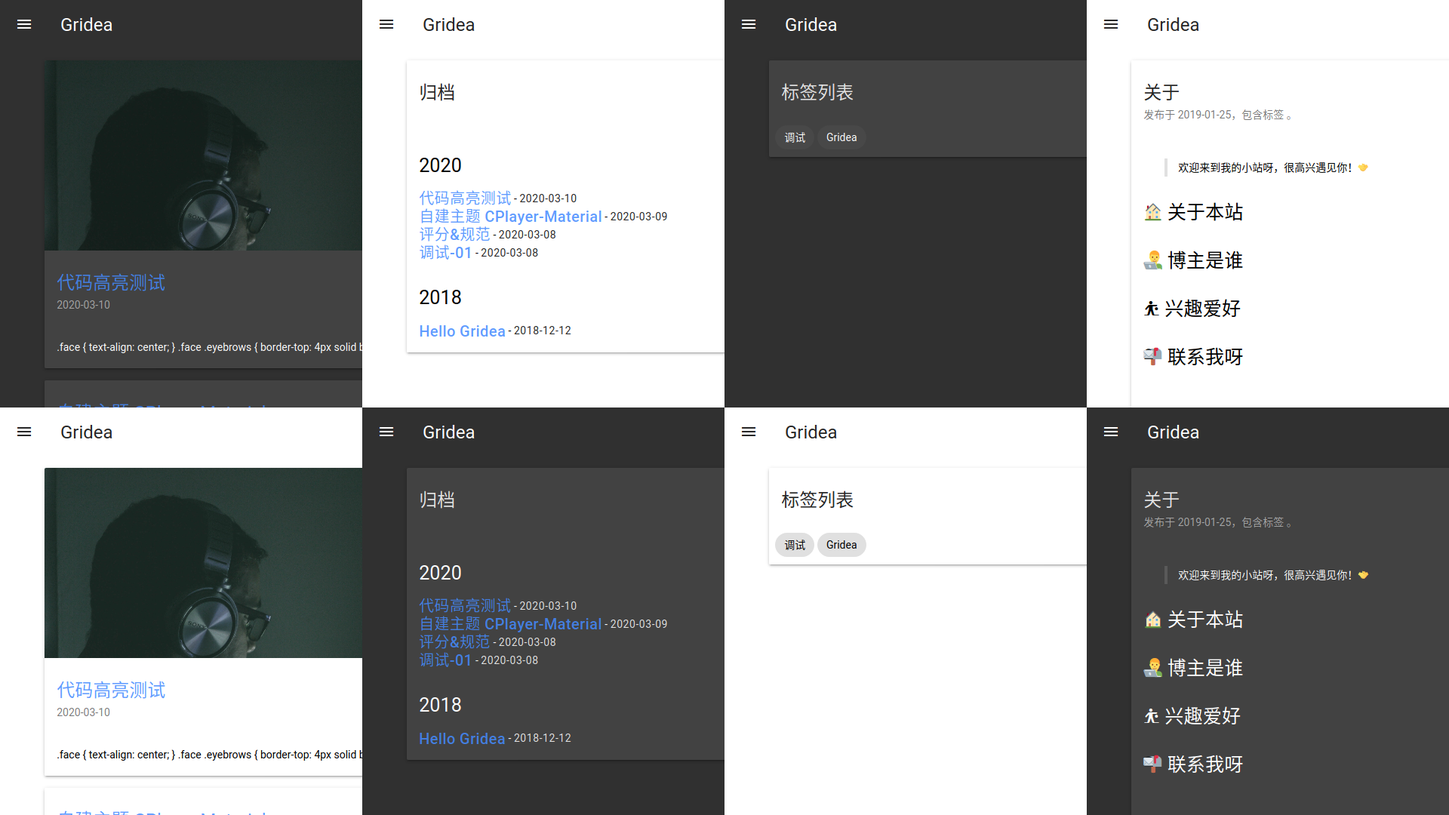
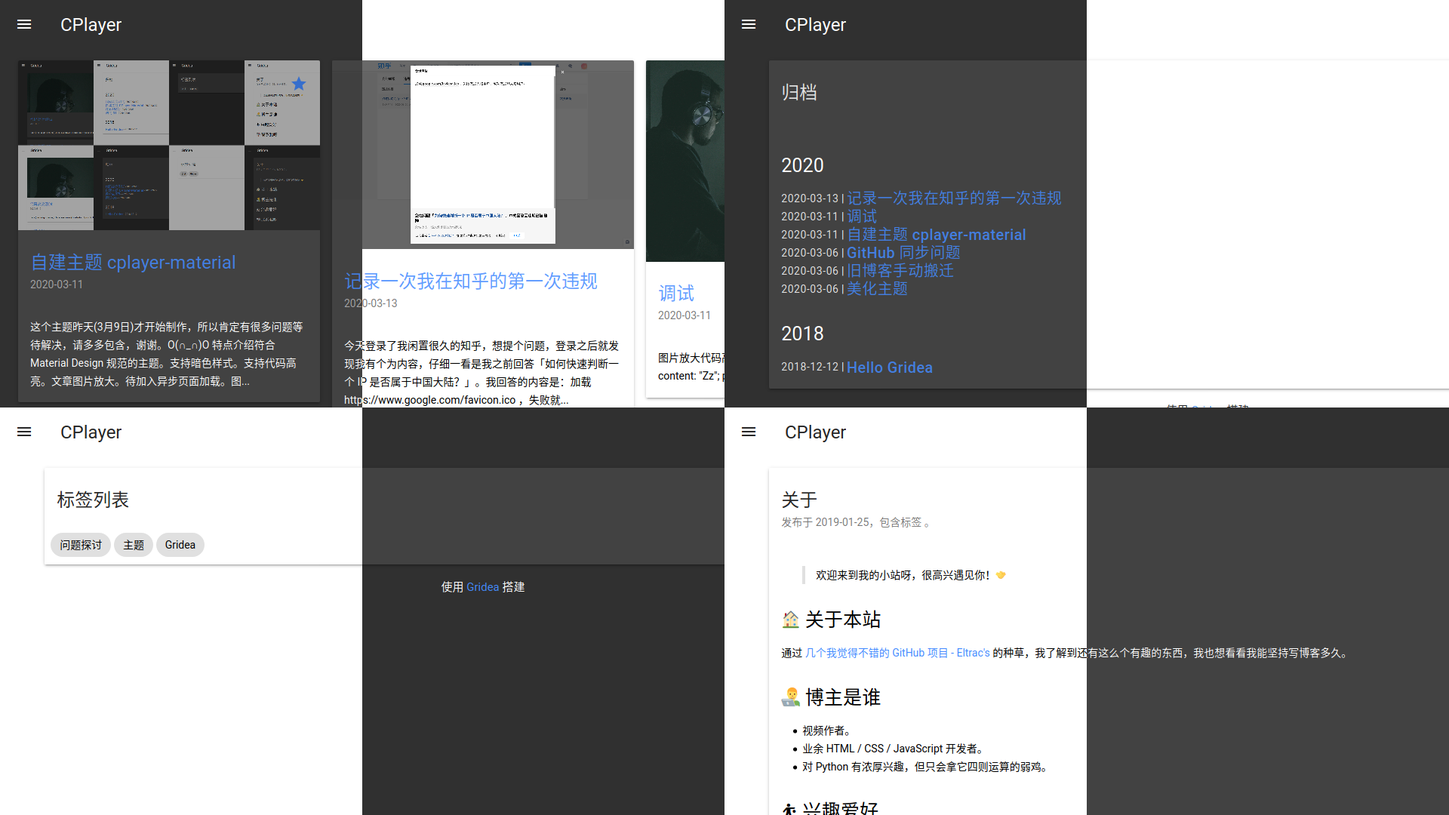
β-0.0.4
- 修改文章列表页面为瀑布流样式。
2020年03月14日09:22:07
新增 `masonry.pkgd.min.js` 文件。  
来自 https://unpkg.com/masonry-layout@4.2.2/dist/masonry.pkgd.min.js

新增 `imagesloaded.pkgd.min.js` 文件。  
来自 https://unpkg.com/imagesloaded@4.1.4/imagesloaded.pkgd.min.js

修改 `post-list.ejs` 文件。
```HTML
<% posts.forEach(function(post) { %>
    <section class="mdui-card mdui-m-b-2">
        <% if (post.feature) { %>
        <div class="mdui-card-media" style="background-image: url(<%= post.feature %>);">
            <% if (post.isTop) { %>
            <div class="mdui-card-menu">
                <i mdui-tooltip="{content: '顶置', position: 'left'}" class="mdui-icon material-icons mdui-text-color-orange">import_contacts</i>
            </div>
            <% } %>
        </div>
        <% } %>
        <div class="mdui-card-primary">
            <a href="<%= post.link %>" class="mdui-card-primary-title"><%= post.title %></a>
            <div class="mdui-card-primary-subtitle"><%= post.dateFormat %></div>
        </div>
        <div class="mdui-card-content"><%- post.description %></div>
    </section>
<% }); %>
```
```HTML
<% posts.forEach(function(post) { %>
    <section class="mdui-col mdui-m-b-2">
        <div class="mdui-card">
            <% if (post.feature) { %>
            <div class="mdui-card-media">
                <img src="<%= post.feature %>">
                <% if (post.isTop) { %>
                <div class="mdui-card-menu">
[…]

diff --git a/assets/media/js/masonry.pkgd.min.js b/assets/media/js/masonry.pkgd.min.js
@@ -1,0 +1,9 @@
+/*!
+ * Masonry PACKAGED v4.2.2
+ * Cascading grid layout library
+ * https://masonry.desandro.com
+ * MIT License
+ * by David DeSandro
+ */
+
+!function(t,e){"function"==typeof define&&define.amd?define("jquery-bridget/jquery-bridget",["jquery"],function(i){return e(t,i)}):"object"==typeof module&&module.exports?module.exports=e(t,require("jquery")):t.jQueryBridget=e(t,t.jQuery)}(window,function(t,e){"use strict";function i(i,r,a){function h(t,e,n){var o,r="$()."+i+'("'+e+'")';return t.each(function(t,h){var u=a.data(h,i);if(!u)return void s(i+" not initialized. Cannot call methods, i.e. "+r);var d=u[e];if(!d||"_"==e.charAt(0))return void s(r+" is not a valid method");var l=d.apply(u,n);o=void 0===o?l:o}),void 0!==o?o:t}function u(t,e){t.each(function(t,n){var o=a.data(n,i);o?(o.option(e),o._init()):(o=new r(n,e),a.data(n,i,o))})}a=a||e||t.jQuery,a&&(r.prototype.option||(r.prototype.option=function(t){a.isPlainObject(t)&&(this.options=a.extend(!0,this.options,t))}),a.fn[i]=function(t){if("string"==typeof t){var e=o.call(arguments,1);return h(this,t,e)}return u(this,t),this},n(a))}function n(t){!t||t&&t.bridget||(t.bridget=i)}var o=Array.prototype.slice,r=t.console,s="undefined"==typeof r?function(){}:function(t){r.error(t)};return n(e||t.jQuery),i}),function(t,e){"function"==typeof define&&define.amd?define("ev-emitter/ev-emitter",e):"object"==typeof module&&module.exports?module.exports=e():t.EvEmitter=e()}("undefined"!=typeof window?window:this,function(){function t(){}var e=t.prototype;return e.on=function(t,e){if(t&&e){var i=this._events=this._events||{},n=i[t]=i[t]||[];return-1==n.indexOf(e)&&n.push(e),this}},e.once=function(t,e){if(t&&e){this.on(t,e);var i=this._onceEvents=this._onceEvents||{},n=i[t]=i[t]||{};return n[e]=!0,this}},e.off=function(t,e){var i=this._events&&this._events[t];if(i&&i.length){var n=i.indexOf(e);return-1!=n&&i.splice(n,1),this}},e.emitEvent=function(t,e){var i=this._events&&this._events[t];if(i&&i.length){i=i.slice(0),e=e||[];for(var n=this._onceEvents&&this._onceEvents[t],o=0;o<i.length;o++){var r=i[o],s=n&&n[r];s&&(this.off(t,r),delete n[r]),r.apply(this,e)}return this}},e.allOff=function(){delete this._events,delete this._onceEvents},t}),function(t,e){"function"==typeof define&&define.amd?define("get-size/get-size",e):"object"==typeof module&&module.exports?module.exports=e():t.getSize=e()}(window,function(){"use strict";function t(t){var e=parseFloat(t),i=-1==t.indexOf("%")&&!isNaN(e);return i&&e}function e(){}function i(){for(var t={width:0,height:0,innerWidth:0,innerHeight:0,outerWidth:0,outerHeight:0},e=0;u>e;e++){var i=h[e];t[i]=0}return t}function n(t){var e=getComputedStyle(t);return e||a("Style returned "+e+". Are you running this code in a hidden iframe on Firefox? See https://bit.ly/getsizebug1"),e}function o(){if(!d){d=!0;var e=document.createElement("div");e.style.width="200px",e.style.padding="1px 2px 3px 4px",e.style.borderStyle="solid",e.style.borderWidth="1px 2px 3px 4px",e.style.boxSizing="border-box";var i=document.body||document.documentElement;i.appendChild(e);var o=n(e);s=200==Math.round(t(o.width)),r.isBoxSizeOuter=s,i.removeChild(e)}}function r(e){if(o(),"string"==typeof e&&(e=document.querySelector(e)),e&&"object"==typeof e&&e.nodeType){var r=n(e);if("none"==r.display)return i();var a={};a.width=e.offsetWidth,a.height=e.offsetHeight;for(var d=a.isBorderBox="border-box"==r.boxSizing,l=0;u>l;l++){var c=h[l],f=r[c],m=parseFloat(f);a[c]=isNaN(m)?0:m}var p=a.paddingLeft+a.paddingRight,g=a.paddingTop+a.paddingBottom,y=a.marginLeft+a.marginRight,v=a.marginTop+a.marginBottom,_=a.borderLeftWidth+a.borderRightWidth,z=a.borderTopWidth+a.borderBottomWidth,E=d&&s,b=t(r.width);b!==!1&&(a.width=b+(E?0:p+_));var x=t(r.height);return x!==!1&&(a.height=x+(E?0:g+z)),a.innerWidth=a.width-(p+_),a.innerHeight=a.height-(g+z),a.outerWidth=a.width+y,a.outerHeight=a.height+v,a}}var s,a="undefined"==typeof console?e:function(t){console.error(t)},h=["paddingLeft","paddingRight","paddingTop","paddingBottom","marginLeft","marginRight","marginTop","marginBottom","borderLeftWidth","borderRightWidth","borderTopWidth","borderBottomWidth"],u=h.length,d=!1;return r}),function(t,e){"use strict";"function"==typeof define&&define.amd?define("desandro-matches-selector/matches-selector",e):"object"==typeof module&&module.exports?module.exports=e():t.matchesSelector=e()}(window,function(){"use strict";var t=function(){var t=window.Element.prototype;if(t.matches)return"matches";if(t.matchesSelector)return"matchesSelector";for(var e=["webkit","moz","ms","o"],i=0;i<e.length;i++){var n=e[i],o=n+"MatchesSelector";if(t[o])return o}}();return function(e,i){return e[t](i)}}),function(t,e){"function"==typeof define&&define.amd?define("fizzy-ui-utils/utils",["desandro-matches-selector/matches-selector"],function(i){return e(t,i)}):"object"==typeof module&&module.exports?module.exports=e(t,require("desandro-matches-selector")):t.fizzyUIUtils=e(t,t.matchesSelector)}(window,function(t,e){var i={};i.extend=function(t,e){for(var i in e)t[i]=e[i];return t},i.modulo=function(t,e){return(t%e+e)%e};var n=Array.prototype.slice;i.makeArray=function(t){if(Array.isArray(t))return t;if(null===t||void 0===t)return[];var e="object"==typeof t&&"number"==typeof t.length;return e?n.call(t):[t]},i.removeFrom=function(t,e){var i=t.indexOf(e);-1!=i&&t.splice(i,1)},i.getParent=function(t,i){for(;t.parentNode&&t!=document.body;)if(t=t.parentNode,e(t,i))return t},i.getQueryElement=function(t){return"string"==typeof t?document.querySelector(t):t},i.handleEvent=function(t){var e="on"+t.type;this[e]&&this[e](t)},i.filterFindElements=function(t,n){t=i.makeArray(t);var o=[];return t.forEach(function(t){if(t instanceof HTMLElement){if(!n)return void o.push(t);e(t,n)&&o.push(t);for(var i=t.querySelectorAll(n),r=0;r<i.length;r++)o.push(i[r])}}),o},i.debounceMethod=function(t,e,i){i=i||100;var n=t.prototype[e],o=e+"Timeout";t.prototype[e]=function(){var t=this[o];clearTimeout(t);var e=arguments,r=this;this[o]=setTimeout(function(){n.apply(r,e),delete r[o]},i)}},i.docReady=function(t){var e=document.readyState;"complete"==e||"interactive"==e?setTimeout(t):document.addEventListener("DOMContentLoaded",t)},i.toDashed=function(t){return t.replace(/(.)([A-Z])/g,function(t,e,i){return e+"-"+i}).toLowerCase()};var o=t.console;return i.htmlInit=function(e,n){i.docReady(function(){var r=i.toDashed(n),s="data-"+r,a=document.querySelectorAll("["+s+"]"),h=document.querySelectorAll(".js-"+r),u=i.makeArray(a).concat(i.makeArray(h)),d=s+"-options",l=t.jQuery;u.forEach(function(t){var i,r=t.getAttribute(s)||t.getAttribute(d);try{i=r&&JSON.parse(r)}catch(a){return void(o&&o.error("Error parsing "+s+" on "+t.className+": "+a))}var h=new e(t,i);l&&l.data(t,n,h)})})},i}),function(t,e){"function"==typeof define&&define.amd?define("outlayer/item",["ev-emitter/ev-emitter","get-size/get-size"],e):"object"==typeof module&&module.exports?module.exports=e(require("ev-emitter"),require("get-size")):(t.Outlayer={},t.Outlayer.Item=e(t.EvEmitter,t.getSize))}(window,function(t,e){"use strict";function i(t){for(var e in t)return!1;return e=null,!0}function n(t,e){t&&(this.element=t,this.layout=e,this.position={x:0,y:0},this._create())}function o(t){return t.replace(/([A-Z])/g,function(t){return"-"+t.toLowerCase()})}var r=document.documentElement.style,s="string"==typeof r.transition?"transition":"WebkitTransition",a="string"==typeof r.transform?"transform":"WebkitTransform",h={WebkitTransition:"webkitTransitionEnd",transition:"transitionend"}[s],u={transform:a,transition:s,transitionDuration:s+"Duration",transitionProperty:s+"Property",transitionDelay:s+"Delay"},d=n.prototype=Object.create(t.prototype);d.constructor=n,d._create=function(){this._transn={ingProperties:{},clean:{},onEnd:{}},this.css({position:"absolute"})},d.handleEvent=function(t){var e="on"+t.type;this[e]&&this[e](t)},d.getSize=function(){this.size=e(this.element)},d.css=function(t){var e=this.element.style;for(var i in t){var n=u[i]||i;e[n]=t[i]}},d.getPosition=function(){var t=getComputedStyle(this.element),e=this.layout._getOption("originLeft"),i=this.layout._getOption("originTop"),n=t[e?"left":"right"],o=t[i?"top":"bottom"],r=parseFloat(n),s=parseFloat(o),a=this.layout.size;-1!=n.indexOf("%")&&(r=r/100*a.width),-1!=o.indexOf("%")&&(s=s/100*a.height),r=isNaN(r)?0:r,s=isNaN(s)?0:s,r-=e?a.paddingLeft:a.paddingRight,s-=i?a.paddingTop:a.paddingBottom,this.position.x=r,this.position.y=s},d.layoutPosition=function(){var t=this.layout.size,e={},i=this.layout._getOption("originLeft"),n=this.layout._getOption("originTop"),o=i?"paddingLeft":"paddingRight",r=i?"left":"right",s=i?"right":"left",a=this.position.x+t[o];e[r]=this.getXValue(a),e[s]="";var h=n?"paddingTop":"paddingBottom",u=n?"top":"bottom",d=n?"bottom":"top",l=this.position.y+t[h];e[u]=this.getYValue(l),e[d]="",this.css(e),this.emitEvent("layout",[this])},d.getXValue=function(t){var e=this.layout._getOption("horizontal");return this.layout.options.percentPosition&&!e?t/this.layout.size.width*100+"%":t+"px"},d.getYValue=function(t){var e=this.layout._getOption("horizontal");return this.layout.options.percentPosition&&e?t/this.layout.size.height*100+"%":t+"px"},d._transitionTo=function(t,e){this.getPosition();var i=this.position.x,n=this.position.y,o=t==this.position.x&&e==this.position.y;if(this.setPosition(t,e),o&&!this.isTransitioning)return void this.layoutPosition();var r=t-i,s=e-n,a={};a.transform=this.getTranslate(r,s),this.transition({to:a,onTransitionEnd:{transform:this.layoutPosition},isCleaning:!0})},d.getTranslate=function(t,e){var i=this.layout._getOption("originLeft"),n=this.layout._getOption("originTop");return t=i?t:-t,e=n?e:-e,"translate3d("+t+"px, "+e+"px, 0)"},d.goTo=function(t,e){this.setPosition(t,e),this.layoutPosition()},d.moveTo=d._transitionTo,d.setPosition=function(t,e){this.position.x=parseFloat(t),this.position.y=parseFloat(e)},d._nonTransition=function(t){this.css(t.to),t.isCleaning&&this._removeStyles(t.to);for(var e in t.onTransitionEnd)t.onTransitionEnd[e].call(this)},d.transition=function(t){if(!parseFloat(this.layout.options.transitionDuration))return void this._nonTransition(t);var e=this._transn;for(var i in t.onTransitionEnd)e.onEnd[i]=t.onTransitionEnd[i];for(i in t.to)e.ingProperties[i]=!0,t.isCleaning&&(e.clean[i]=!0);if(t.from){this.css(t.from);var n=this.element.offsetHeight;n=null}this.enableTransition(t.to),this.css(t.to),this.isTransitioning=!0};var l="opacity,"+o(a);d.enableTransition=function(){if(!this.isTransitioning){var t=this.layout.options.transitionDuration;t="number"==typeof t?t+"ms":t,this.css({transitionProperty:l,transitionDuration:t,transitionDelay:this.staggerDelay||0}),this.element.addEventListener(h,this,!1)}},d.onwebkitTransitionEnd=function(t){this.ontransitionend(t)},d.onotransitionend=function(t){this.ontransitionend(t)};var c={"-webkit-transform":"transform"};d.ontransitionend=function(t){if(t.target===this.element){var e=this._transn,n=c[t.propertyName]||t.propertyName;if(delete e.ingProperties[n],i(e.ingProperties)&&this.disableTransition(),n in e.clean&&(this.element.style[t.propertyName]="",delete e.clean[n]),n in e.onEnd){var o=e.onEnd[n];o.call(this),delete e.onEnd[n]}this.emitEvent("transitionEnd",[this])}},d.disableTransition=function(){this.removeTransitionStyles(),this.element.removeEventListener(h,this,!1),this.isTransitioning=!1},d._removeStyles=function(t){var e={};for(var i in t)e[i]="";this.css(e)};var f={transitionProperty:"",transitionDuration:"",transitionDelay:""};return d.removeTransitionStyles=function(){this.css(f)},d.stagger=function(t){t=isNaN(t)?0:t,this.staggerDelay=t+"ms"},d.removeElem=function(){this.element.parentNode.removeChild(this.element),this.css({display:""}),this.emitEvent("remove",[this])},d.remove=function(){return s&&parseFloat(this.layout.options.transitionDuration)?(this.once("transitionEnd",function(){this.removeElem()}),void this.hide()):void this.removeElem()},d.reveal=function(){delete this.isHidden,this.css({display:""});var t=this.layout.options,e={},i=this.getHideRevealTransitionEndProperty("visibleStyle");e[i]=this.onRevealTransitionEnd,this.transition({from:t.hiddenStyle,to:t.visibleStyle,isCleaning:!0,onTransitionEnd:e})},d.onRevealTransitionEnd=function(){this.isHidden||this.emitEvent("reveal")},d.getHideRevealTransitionEndProperty=function(t){var e=this.layout.options[t];if(e.opacity)return"opacity";for(var i in e)return i},d.hide=function(){this.isHidden=!0,this.css({display:""});var t=this.layout.options,e={},i=this.getHideRevealTransitionEndProperty("hiddenStyle");e[i]=this.onHideTransitionEnd,this.transition({from:t.visibleStyle,to:t.hiddenStyle,isCleaning:!0,onTransitionEnd:e})},d.onHideTransitionEnd=function(){this.isHidden&&(this.css({display:"none"}),this.emitEvent("hide"))},d.destroy=function(){this.css({position:"",left:"",right:"",top:"",bottom:"",transition:"",transform:""})},n}),function(t,e){"use strict";"function"==typeof define&&define.amd?define("outlayer/outlayer",["ev-emitter/ev-emitter","get-size/get-size","fizzy-ui-utils/utils","./item"],function(i,n,o,r){return e(t,i,n,o,r)}):"object"==typeof module&&module.exports?module.exports=e(t,require("ev-emitter"),require("get-size"),require("fizzy-ui-utils"),require("./item")):t.Outlayer=e(t,t.EvEmitter,t.getSize,t.fizzyUIUtils,t.Outlayer.Item)}(window,function(t,e,i,n,o){"use strict";function r(t,e){var i=n.getQueryElement(t);if(!i)return void(h&&h.error("Bad element for "+this.constructor.namespace+": "+(i||t)));this.element=i,u&&(this.$element=u(this.element)),this.options=n.extend({},this.constructor.defaults),this.option(e);var o=++l;this.element.outlayerGUID=o,c[o]=this,this._create();var r=this._getOption("initLayout");r&&this.layout()}function s(t){function e(){t.apply(this,arguments)}return e.prototype=Object.create(t.prototype),e.prototype.constructor=e,e}function a(t){if("number"==typeof t)return t;var e=t.match(/(^\d*\.?\d*)(\w*)/),i=e&&e[1],n=e&&e[2];if(!i.length)return 0;i=parseFloat(i);var o=m[n]||1;return i*o}var h=t.console,u=t.jQuery,d=function(){},l=0,c={};r.namespace="outlayer",r.Item=o,r.defaults={containerStyle:{position:"relative"},initLayout:!0,originLeft:!0,originTop:!0,resize:!0,resizeContainer:!0,transitionDuration:"0.4s",hiddenStyle:{opacity:0,transform:"scale(0.001)"},visibleStyle:{opacity:1,transform:"scale(1)"}};var f=r.prototype;n.extend(f,e.prototype),f.option=function(t){n.extend(this.options,t)},f._getOption=function(t){var e=this.constructor.compatOptions[t];return e&&void 0!==this.options[e]?this.options[e]:this.options[t]},r.compatOptions={initLayout:"isInitLayout",horizontal:"isHorizontal",layoutInstant:"isLayoutInstant",originLeft:"isOriginLeft",originTop:"isOriginTop",resize:"isResizeBound",resizeContainer:"isResizingContainer"},f._create=function(){this.reloadItems(),this.stamps=[],this.stamp(this.options.stamp),n.extend(this.element.style,this.options.containerStyle);var t=this._getOption("resize");t&&this.bindResize()},f.reloadItems=function(){this.items=this._itemize(this.element.children)},f._itemize=function(t){for(var e=this._filterFindItemElements(t),i=this.constructor.Item,n=[],o=0;o<e.length;o++){var r=e[o],s=new i(r,this);n.push(s)}return n},f._filterFindItemElements=function(t){return n.filterFindElements(t,this.options.itemSelector)},f.getItemElements=function(){return this.items.map(function(t){return t.element})},f.layout=function(){this._resetLayout(),this._manageStamps();var t=this._getOption("layoutInstant"),e=void 0!==t?t:!this._isLayoutInited;this.layoutItems(this.items,e),this._isLayoutInited=!0},f._init=f.layout,f._resetLayout=function(){this.getSize()},f.getSize=function(){this.size=i(this.element)},f._getMeasurement=function(t,e){var n,o=this.options[t];o?("string"==typeof o?n=this.element.querySelector(o):o instanceof HTMLElement&&(n=o),this[t]=n?i(n)[e]:o):this[t]=0},f.layoutItems=function(t,e){t=this._getItemsForLayout(t),this._layoutItems(t,e),this._postLayout()},f._getItemsForLayout=function(t){return t.filter(function(t){return!t.isIgnored})},f._layoutItems=function(t,e){if(this._emitCompleteOnItems("layout",t),t&&t.length){var i=[];t.forEach(function(t){var n=this._getItemLayoutPosition(t);n.item=t,n.isInstant=e||t.isLayoutInstant,i.push(n)},this),this._processLayoutQueue(i)}},f._getItemLayoutPosition=function(){return{x:0,y:0}},f._processLayoutQueue=function(t){this.updateStagger(),t.forEach(function(t,e){this._positionItem(t.item,t.x,t.y,t.isInstant,e)},this)},f.updateStagger=function(){var t=this.options.stagger;return null===t||void 0===t?void(this.stagger=0):(this.stagger=a(t),this.stagger)},f._positionItem=function(t,e,i,n,o){n?t.goTo(e,i):(t.stagger(o*this.stagger),t.moveTo(e,i))},f._postLayout=function(){this.resizeContainer()},f.resizeContainer=function(){var t=this._getOption("resizeContainer");if(t){var e=this._getContainerSize();e&&(this._setContainerMeasure(e.width,!0),this._setContainerMeasure(e.height,!1))}},f._getContainerSize=d,f._setContainerMeasure=function(t,e){if(void 0!==t){var i=this.size;i.isBorderBox&&(t+=e?i.paddingLeft+i.paddingRight+i.borderLeftWidth+i.borderRightWidth:i.paddingBottom+i.paddingTop+i.borderTopWidth+i.borderBottomWidth),t=Math.max(t,0),this.element.style[e?"width":"height"]=t+"px"}},f._emitCompleteOnItems=function(t,e){function i(){o.dispatchEvent(t+"Complete",null,[e])}function n(){s++,s==r&&i()}var o=this,r=e.length;if(!e||!r)return void i();var s=0;e.forEach(function(e){e.once(t,n)})},f.dispatchEvent=function(t,e,i){var n=e?[e].concat(i):i;if(this.emitEvent(t,n),u)if(this.$element=this.$element||u(this.element),e){var o=u.Event(e);o.type=t,this.$element.trigger(o,i)}else this.$element.trigger(t,i)},f.ignore=function(t){var e=this.getItem(t);e&&(e.isIgnored=!0)},f.unignore=function(t){var e=this.getItem(t);e&&delete e.isIgnored},f.stamp=function(t){t=this._find(t),t&&(this.stamps=this.stamps.concat(t),t.forEach(this.ignore,this))},f.unstamp=function(t){t=this._find(t),t&&t.forEach(function(t){n.removeFrom(this.stamps,t),this.unignore(t)},this)},f._find=function(t){return t?("string"==typeof t&&(t=this.element.querySelectorAll(t)),t=n.makeArray(t)):void 0},f._manageStamps=function(){this.stamps&&this.stamps.length&&(this._getBoundingRect(),this.stamps.forEach(this._manageStamp,this))},f._getBoundingRect=function(){var t=this.element.getBoundingClientRect(),e=this.size;this._boundingRect={left:t.left+e.paddingLeft+e.borderLeftWidth,top:t.top+e.paddingTop+e.borderTopWidth,right:t.right-(e.paddingRight+e.borderRightWidth),bottom:t.bottom-(e.paddingBottom+e.borderBottomWidth)}},f._manageStamp=d,f._getElementOffset=function(t){var e=t.getBoundingClientRect(),n=this._boundingRect,o=i(t),r={left:e.left-n.left-o.marginLeft,top:e.top-n.top-o.marginTop,right:n.right-e.right-o.marginRight,bottom:n.bottom-e.bottom-o.marginBottom};return r},f.handleEvent=n.handleEvent,f.bindResize=function(){t.addEventListener("resize",this),this.isResizeBound=!0},f.unbindResize=function(){t.removeEventListener("resize",this),this.isResizeBound=!1},f.onresize=function(){this.resize()},n.debounceMethod(r,"onresize",100),f.resize=function(){this.isResizeBound&&this.needsResizeLayout()&&this.layout()},f.needsResizeLayout=function(){var t=i(this.element),e=this.size&&t;return e&&t.innerWidth!==this.size.innerWidth},f.addItems=function(t){var e=this._itemize(t);return e.length&&(this.items=this.items.concat(e)),e},f.appended=function(t){var e=this.addItems(t);e.length&&(this.layoutItems(e,!0),this.reveal(e))},f.prepended=function(t){var e=this._itemize(t);if(e.length){var i=this.items.slice(0);this.items=e.concat(i),this._resetLayout(),this._manageStamps(),this.layoutItems(e,!0),this.reveal(e),this.layoutItems(i)}},f.reveal=function(t){if(this._emitCompleteOnItems("reveal",t),t&&t.length){var e=this.updateStagger();t.forEach(function(t,i){t.stagger(i*e),t.reveal()})}},f.hide=function(t){if(this._emitCompleteOnItems("hide",t),t&&t.length){var e=this.updateStagger();t.forEach(function(t,i){t.stagger(i*e),t.hide()})}},f.revealItemElements=function(t){var e=this.getItems(t);this.reveal(e)},f.hideItemElements=function(t){var e=this.getItems(t);this.hide(e)},f.getItem=function(t){for(var e=0;e<this.items.length;e++){var i=this.items[e];if(i.element==t)return i}},f.getItems=function(t){t=n.makeArray(t);var e=[];return t.forEach(function(t){var i=this.getItem(t);i&&e.push(i)},this),e},f.remove=function(t){var e=this.getItems(t);this._emitCompleteOnItems("remove",e),e&&e.length&&e.forEach(function(t){t.remove(),n.removeFrom(this.items,t)},this)},f.destroy=function(){var t=this.element.style;t.height="",t.position="",t.width="",this.items.forEach(function(t){t.destroy()}),this.unbindResize();var e=this.element.outlayerGUID;delete c[e],delete this.element.outlayerGUID,u&&u.removeData(this.element,this.constructor.namespace)},r.data=function(t){t=n.getQueryElement(t);var e=t&&t.outlayerGUID;return e&&c[e]},r.create=function(t,e){var i=s(r);return i.defaults=n.extend({},r.defaults),n.extend(i.defaults,e),i.compatOptions=n.extend({},r.compatOptions),i.namespace=t,i.data=r.data,i.Item=s(o),n.htmlInit(i,t),u&&u.bridget&&u.bridget(t,i),i};var m={ms:1,s:1e3};return r.Item=o,r}),function(t,e){"function"==typeof define&&define.amd?define(["outlayer/outlayer","get-size/get-size"],e):"object"==typeof module&&module.exports?module.exports=e(require("outlayer"),require("get-size")):t.Masonry=e(t.Outlayer,t.getSize)}(window,function(t,e){var i=t.create("masonry");i.compatOptions.fitWidth="isFitWidth";var n=i.prototype;return n._resetLayout=function(){this.getSize(),this._getMeasurement("columnWidth","outerWidth"),this._getMeasurement("gutter","outerWidth"),this.measureColumns(),this.colYs=[];for(var t=0;t<this.cols;t++)this.colYs.push(0);this.maxY=0,this.horizontalColIndex=0},n.measureColumns=function(){if(this.getContainerWidth(),!this.columnWidth){var t=this.items[0],i=t&&t.element;this.columnWidth=i&&e(i).outerWidth||this.containerWidth}var n=this.columnWidth+=this.gutter,o=this.containerWidth+this.gutter,r=o/n,s=n-o%n,a=s&&1>s?"round":"floor";r=Math[a](r),this.cols=Math.max(r,1)},n.getContainerWidth=function(){var t=this._getOption("fitWidth"),i=t?this.element.parentNode:this.element,n=e(i);this.containerWidth=n&&n.innerWidth},n._getItemLayoutPosition=function(t){t.getSize();var e=t.size.outerWidth%this.columnWidth,i=e&&1>e?"round":"ceil",n=Math[i](t.size.outerWidth/this.columnWidth);n=Math.min(n,this.cols);for(var o=this.options.horizontalOrder?"_getHorizontalColPosition":"_getTopColPosition",r=this[o](n,t),s={x:this.columnWidth*r.col,y:r.y},a=r.y+t.size.outerHeight,h=n+r.col,u=r.col;h>u;u++)this.colYs[u]=a;return s},n._getTopColPosition=function(t){var e=this._getTopColGroup(t),i=Math.min.apply(Math,e);return{col:e.indexOf(i),y:i}},n._getTopColGroup=function(t){if(2>t)return this.colYs;for(var e=[],i=this.cols+1-t,n=0;i>n;n++)e[n]=this._getColGroupY(n,t);return e},n._getColGroupY=function(t,e){if(2>e)return this.colYs[t];var i=this.colYs.slice(t,t+e);return Math.max.apply(Math,i)},n._getHorizontalColPosition=function(t,e){var i=this.horizontalColIndex%this.cols,n=t>1&&i+t>this.cols;i=n?0:i;var o=e.size.outerWidth&&e.size.outerHeight;return this.horizontalColIndex=o?i+t:this.horizontalColIndex,{col:i,y:this._getColGroupY(i,t)}},n._manageStamp=function(t){var i=e(t),n=this._getElementOffset(t),o=this._getOption("originLeft"),r=o?n.left:n.right,s=r+i.outerWidth,a=Math.floor(r/this.columnWidth);a=Math.max(0,a);var h=Math.floor(s/this.columnWidth);h-=s%this.columnWidth?0:1,h=Math.min(this.cols-1,h);for(var u=this._getOption("originTop"),d=(u?n.top:n.bottom)+i.outerHeight,l=a;h>=l;l++)this.colYs[l]=Math.max(d,this.colYs[l])},n._getContainerSize=function(){this.maxY=Math.max.apply(Math,this.colYs);var t={height:this.maxY};return this._getOption("fitWidth")&&(t.width=this._getContainerFitWidth()),t},n._getContainerFitWidth=function(){for(var t=0,e=this.cols;--e&&0===this.colYs[e];)t++;return(this.cols-t)*this.columnWidth-this.gutter},n.needsResizeLayout=function(){var t=this.containerWidth;return this.getContainerWidth(),t!=this.containerWidth},i});

diff --git a/assets/media/js/imagesloaded.pkgd.min.js b/assets/media/js/imagesloaded.pkgd.min.js
@@ -1,0 +1,7 @@
+/*!
+ * imagesLoaded PACKAGED v4.1.4
+ * JavaScript is all like "You images are done yet or what?"
+ * MIT License
+ */
+
+!function(e,t){"function"==typeof define&&define.amd?define("ev-emitter/ev-emitter",t):"object"==typeof module&&module.exports?module.exports=t():e.EvEmitter=t()}("undefined"!=typeof window?window:this,function(){function e(){}var t=e.prototype;return t.on=function(e,t){if(e&&t){var i=this._events=this._events||{},n=i[e]=i[e]||[];return n.indexOf(t)==-1&&n.push(t),this}},t.once=function(e,t){if(e&&t){this.on(e,t);var i=this._onceEvents=this._onceEvents||{},n=i[e]=i[e]||{};return n[t]=!0,this}},t.off=function(e,t){var i=this._events&&this._events[e];if(i&&i.length){var n=i.indexOf(t);return n!=-1&&i.splice(n,1),this}},t.emitEvent=function(e,t){var i=this._events&&this._events[e];if(i&&i.length){i=i.slice(0),t=t||[];for(var n=this._onceEvents&&this._onceEvents[e],o=0;o<i.length;o++){var r=i[o],s=n&&n[r];s&&(this.off(e,r),delete n[r]),r.apply(this,t)}return this}},t.allOff=function(){delete this._events,delete this._onceEvents},e}),function(e,t){"use strict";"function"==typeof define&&define.amd?define(["ev-emitter/ev-emitter"],function(i){return t(e,i)}):"object"==typeof module&&module.exports?module.exports=t(e,require("ev-emitter")):e.imagesLoaded=t(e,e.EvEmitter)}("undefined"!=typeof window?window:this,function(e,t){function i(e,t){for(var i in t)e[i]=t[i];return e}function n(e){if(Array.isArray(e))return e;var t="object"==typeof e&&"number"==typeof e.length;return t?d.call(e):[e]}function o(e,t,r){if(!(this instanceof o))return new o(e,t,r);var s=e;return"string"==typeof e&&(s=document.querySelectorAll(e)),s?(this.elements=n(s),this.options=i({},this.options),"function"==typeof t?r=t:i(this.options,t),r&&this.on("always",r),this.getImages(),h&&(this.jqDeferred=new h.Deferred),void setTimeout(this.check.bind(this))):void a.error("Bad element for imagesLoaded "+(s||e))}function r(e){this.img=e}function s(e,t){this.url=e,this.element=t,this.img=new Image}var h=e.jQuery,a=e.console,d=Array.prototype.slice;o.prototype=Object.create(t.prototype),o.prototype.options={},o.prototype.getImages=function(){this.images=[],this.elements.forEach(this.addElementImages,this)},o.prototype.addElementImages=function(e){"IMG"==e.nodeName&&this.addImage(e),this.options.background===!0&&this.addElementBackgroundImages(e);var t=e.nodeType;if(t&&u[t]){for(var i=e.querySelectorAll("img"),n=0;n<i.length;n++){var o=i[n];this.addImage(o)}if("string"==typeof this.options.background){var r=e.querySelectorAll(this.options.background);for(n=0;n<r.length;n++){var s=r[n];this.addElementBackgroundImages(s)}}}};var u={1:!0,9:!0,11:!0};return o.prototype.addElementBackgroundImages=function(e){var t=getComputedStyle(e);if(t)for(var i=/url\((['"])?(.*?)\1\)/gi,n=i.exec(t.backgroundImage);null!==n;){var o=n&&n[2];o&&this.addBackground(o,e),n=i.exec(t.backgroundImage)}},o.prototype.addImage=function(e){var t=new r(e);this.images.push(t)},o.prototype.addBackground=function(e,t){var i=new s(e,t);this.images.push(i)},o.prototype.check=function(){function e(e,i,n){setTimeout(function(){t.progress(e,i,n)})}var t=this;return this.progressedCount=0,this.hasAnyBroken=!1,this.images.length?void this.images.forEach(function(t){t.once("progress",e),t.check()}):void this.complete()},o.prototype.progress=function(e,t,i){this.progressedCount++,this.hasAnyBroken=this.hasAnyBroken||!e.isLoaded,this.emitEvent("progress",[this,e,t]),this.jqDeferred&&this.jqDeferred.notify&&this.jqDeferred.notify(this,e),this.progressedCount==this.images.length&&this.complete(),this.options.debug&&a&&a.log("progress: "+i,e,t)},o.prototype.complete=function(){var e=this.hasAnyBroken?"fail":"done";if(this.isComplete=!0,this.emitEvent(e,[this]),this.emitEvent("always",[this]),this.jqDeferred){var t=this.hasAnyBroken?"reject":"resolve";this.jqDeferred[t](this)}},r.prototype=Object.create(t.prototype),r.prototype.check=function(){var e=this.getIsImageComplete();return e?void this.confirm(0!==this.img.naturalWidth,"naturalWidth"):(this.proxyImage=new Image,this.proxyImage.addEventListener("load",this),this.proxyImage.addEventListener("error",this),this.img.addEventListener("load",this),this.img.addEventListener("error",this),void(this.proxyImage.src=this.img.src))},r.prototype.getIsImageComplete=function(){return this.img.complete&&this.img.naturalWidth},r.prototype.confirm=function(e,t){this.isLoaded=e,this.emitEvent("progress",[this,this.img,t])},r.prototype.handleEvent=function(e){var t="on"+e.type;this[t]&&this[t](e)},r.prototype.onload=function(){this.confirm(!0,"onload"),this.unbindEvents()},r.prototype.onerror=function(){this.confirm(!1,"onerror"),this.unbindEvents()},r.prototype.unbindEvents=function(){this.proxyImage.removeEventListener("load",this),this.proxyImage.removeEventListener("error",this),this.img.removeEventListener("load",this),this.img.removeEventListener("error",this)},s.prototype=Object.create(r.prototype),s.prototype.check=function(){this.img.addEventListener("load",this),this.img.addEventListener("error",this),this.img.src=this.url;var e=this.getIsImageComplete();e&&(this.confirm(0!==this.img.naturalWidth,"naturalWidth"),this.unbindEvents())},s.prototype.unbindEvents=function(){this.img.removeEventListener("load",this),this.img.removeEventListener("error",this)},s.prototype.confirm=function(e,t){this.isLoaded=e,this.emitEvent("progress",[this,this.element,t])},o.makeJQueryPlugin=function(t){t=t||e.jQuery,t&&(h=t,h.fn.imagesLoaded=function(e,t){var i=new o(this,e,t);return i.jqDeferred.promise(h(this))})},o.makeJQueryPlugin(),o});

diff --git a/assets/media/js/modify.js b/assets/media/js/modify.js
@@ -55,3 +55,16 @@ $(function() {
 window.addEventListener('load', function () {
     Lightense('#post .mdui-card-content img');
 }, false);
+
+// 文章列表页面瀑布流。
+function masonry() {
+    // 初始化 masonry
+    $('.mdui-row-xs-1').masonry({
+        itemSelector: '.mdui-col',
+        horizontalOrder: true
+    });
+}
+masonry()
+$('.mdui-col').imagesLoaded( function() {
+    masonry()
+});

diff --git a/assets/media/css/modify.css b/assets/media/css/modify.css
@@ -1,12 +1,3 @@
-#index .mdui-card-media {
-    background-size: cover;
-    height: 35vh;
-}
-#post .mdui-card-media {
-    background-size: cover;
-    height: 50vh;
-}
-
 .mdui-theme-layout-dark #drawer {
     background-color: #424242;
 }
@@ -56,5 +47,5 @@ figure {
 }
 
 .mdui-theme-layout-dark .hljs {
-    padding: 0;
+    padding: 0 !important;
 }
